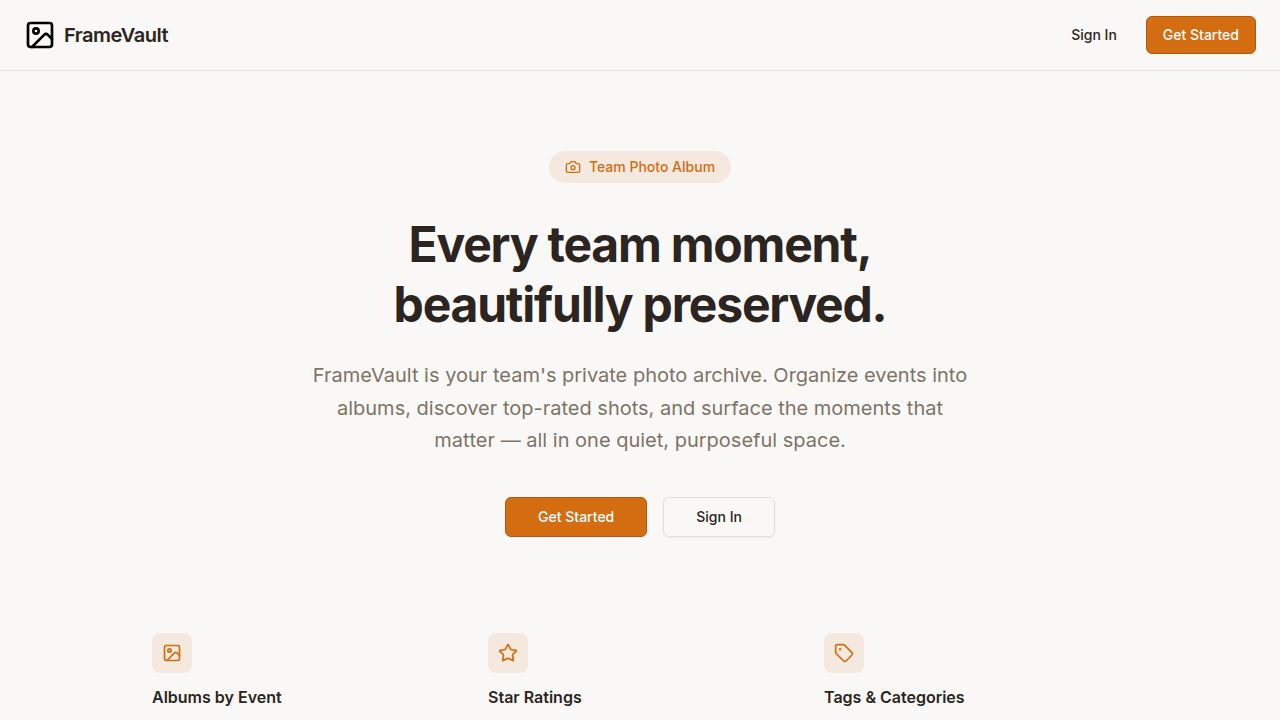
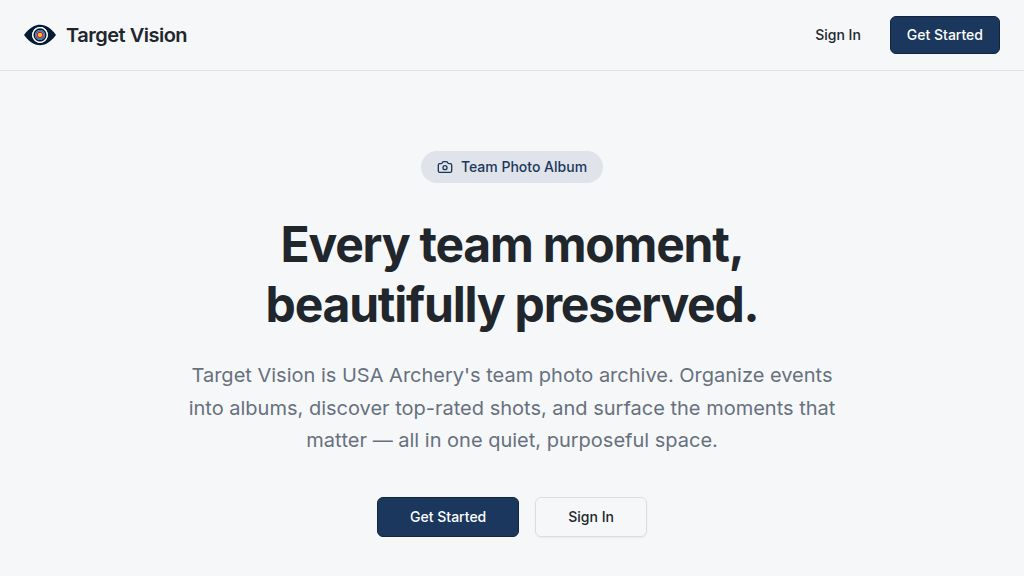
Task #22: Update all in-app text from 'FrameVault' to 'Target Vision'
The rebrand to Target Vision / USA Archery was mostly complete in the UI
source files, but two surfaces still referenced the old name.

Changes made:
1. artifacts/photo-album/public/opengraph.jpg — regenerated as a fresh
   screenshot of the live app. The old image showed "FrameVault" in the
   header logo text and the hero body copy ("FrameVault is your team's
   private photo archive"). The new image shows "Target Vision" throughout.

2. lib/db/src/seed.ts — updated two demo seed user email domains from
   @user.demo to @user.demo for full brand consistency.

Already-correct surfaces (no changes needed):
- artifacts/photo-album/src/pages/home.tsx — hero copy and footer already
  read "Target Vision"
- artifacts/photo-album/index.html — page title and all OG/Twitter meta
  tags already read "Target Vision"

A follow-up task (#24) was proposed to audit any email notification
templates for remaining "FrameVault" references.

Replit-Task-Id: c40c3f08-adb2-408e-926a-a057c52a753b

diff --git a/lib/db/src/seed.ts b/lib/db/src/seed.ts
@@ -63,7 +63,7 @@ async function seed() {
     .values({
       clerkId: "seed_demo_user",
       name: "Alex Rivera",
-      email: "[email redacted]",
+      email: "[email redacted]",
       role: "admin",
     })
     .onConflictDoNothing()
@@ -80,7 +80,7 @@ async function seed() {
     .values({
       clerkId: "seed_demo_user_2",
       name: "Jordan Kim",
-      email: "[email redacted]",
+      email: "[email redacted]",
       role: "member",
     })
     .onConflictDoNothing()